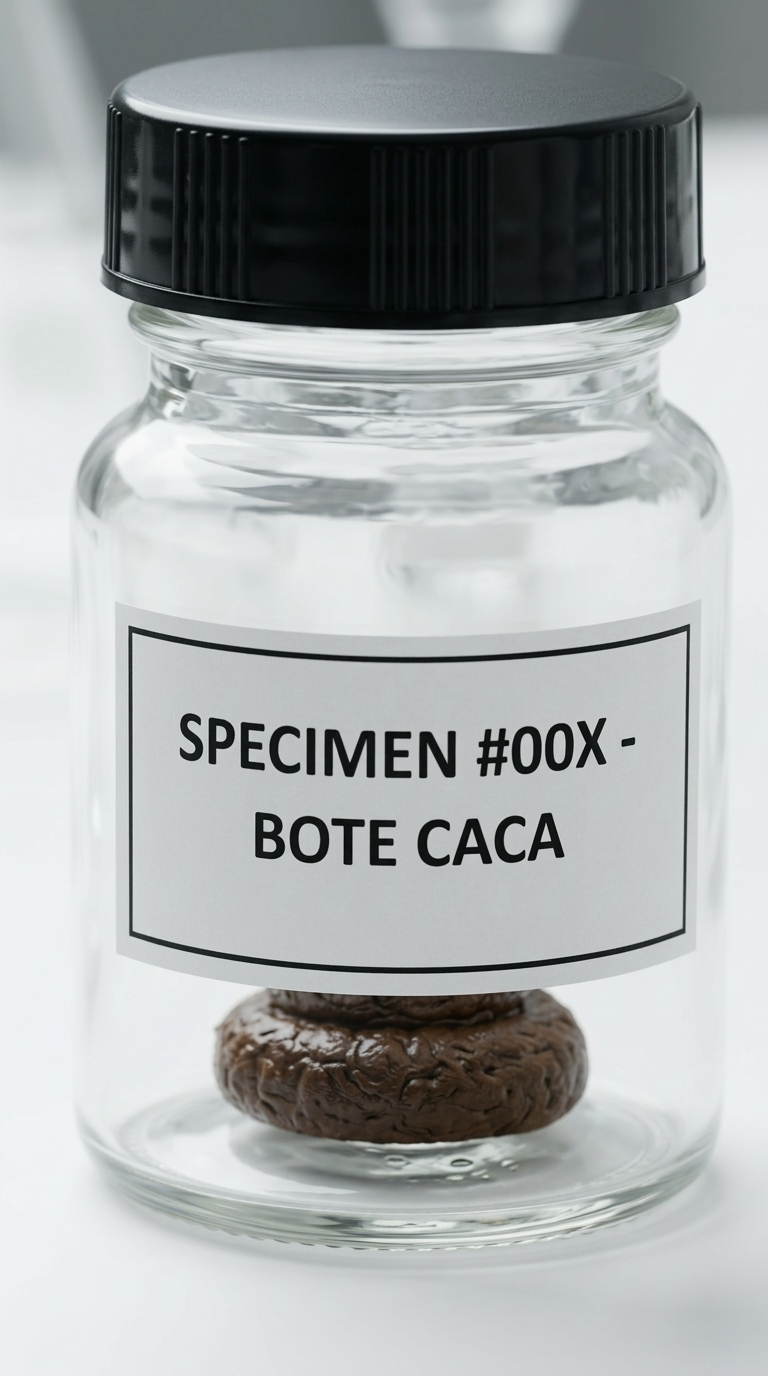
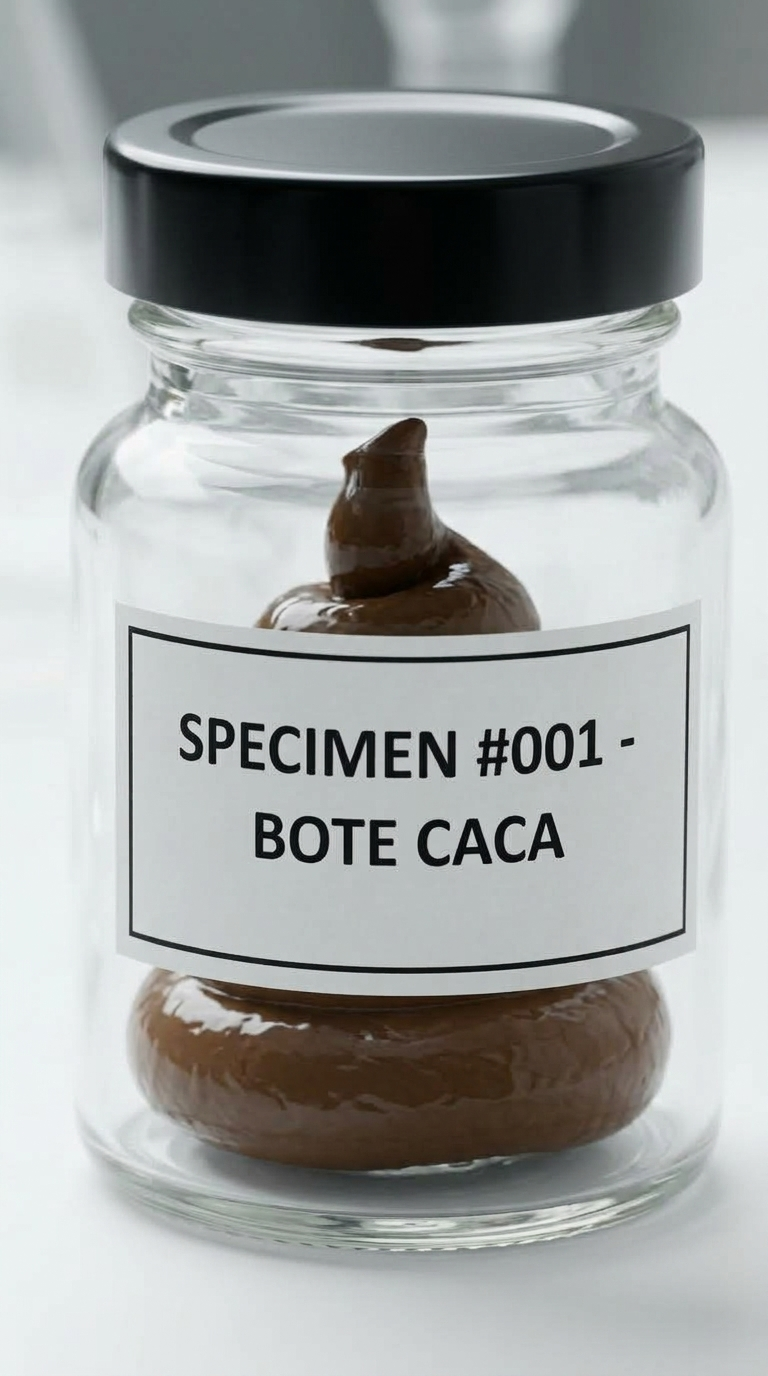
Add files via upload

diff --git a/index.html b/index.html
@@ -64,7 +64,7 @@
         El regalo más sincero que le vas a hacer a alguien.
       </h2>
       <p class="text-stone-600 text-sm mb-4 leading-relaxed">
-        Un tarrito de vidrio de 30 ml con muestra oficial, caja de regalo y la dedicatoria que se merece. Ideal para amigos/as, jefes/as, suegros/as, tu ex, familiares o tu pareja.
+        Un tarrito de vidrio de 50 ml con muestra oficial, caja de regalo y la dedicatoria que se merece. Ideal para amigos/as, jefes/as, suegros/as, tu ex, familiares o tu pareja.
       </p>
 
       <!-- VISUALIZADOR DEL PRODUCTO / TARRO -->
@@ -83,7 +83,7 @@
             </div>
           </div>
           <span id="product-hero-caption" class="text-[11px] text-stone-600 font-medium mt-3 text-center px-4">
-            Pack Dúo (2 botes) · 2 muestras de 30 ml · Caja kraft y tarjeta incluida
+            Pack Dúo (2 botes) · 2 muestras de 50 ml · Caja kraft y tarjeta incluida
           </span>
         </div>
 
@@ -258,14 +258,14 @@
         <div class="bg-white p-3 rounded-xl border border-stone-200 shadow-sm flex items-start gap-2">
           <span class="text-lg">🫙</span>
           <div>
-            <strong class="block text-stone-900">Vial de vidrio 30 ml</strong>
+            <strong class="block text-stone-900">Tarro de vidrio 50 ml</strong>
             <span class="text-stone-600 text-[11px]">Con rosca hermética y tapa negra mate.</span>
           </div>
         </div>
         <div class="bg-white p-3 rounded-xl border border-stone-200 shadow-sm flex items-start gap-2">
           <span class="text-lg">💩</span>
           <div>
-            <strong class="block text-stone-900">Muestra de 2,5 cm</strong>
+            <strong class="block text-stone-900">Muestra de 3,5 cm</strong>
             <span class="text-stone-600 text-[11px]">Escultura hiperrealista (inodora y limpia).</span>
           </div>
         </div>
@@ -343,7 +343,7 @@
         stripeUrl: 'https://buy.stripe.com/28E00j8DHeTTf5oegF1sQ00',
         img: './bote-caca-pro.jpg',
         badge: '1 BOTE SUELTO · FOTO REAL',
-        caption: 'Tarro de cristal 30 ml · Réplica realista de 2,5 cm · Edición Numerada'
+        caption: 'Tarro de cristal 50 ml · Réplica realista de 3,5 cm · Edición Numerada'
       },
       duo: {
         title: 'Pack Dúo (2 Botes)',
@@ -355,7 +355,7 @@
         stripeUrl: 'https://buy.stripe.com/eVq7sLdY1fXX9L43C11sQ01',
         img: './bote-caca-duo.jpg',
         badge: 'PACK DÚO (2 BOTES) · FOTO REAL',
-        caption: 'Pack Dúo (2 botes) · 2 muestras de 30 ml · Caja kraft y tarjeta incluida'
+        caption: 'Pack Dúo (2 botes) · 2 muestras de 50 ml · Caja kraft y tarjeta incluida'
       }
     };
 
